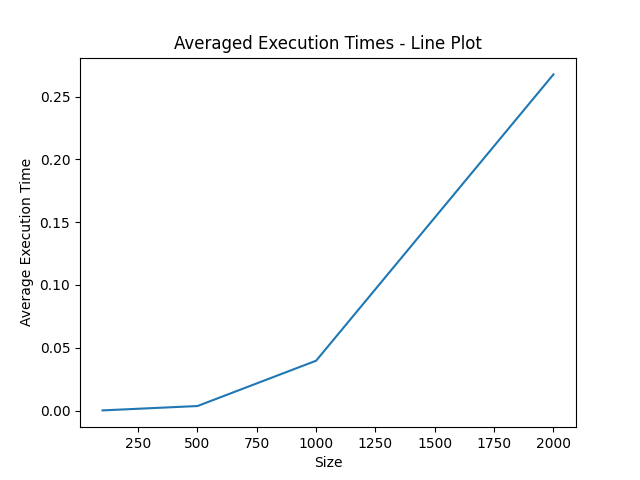
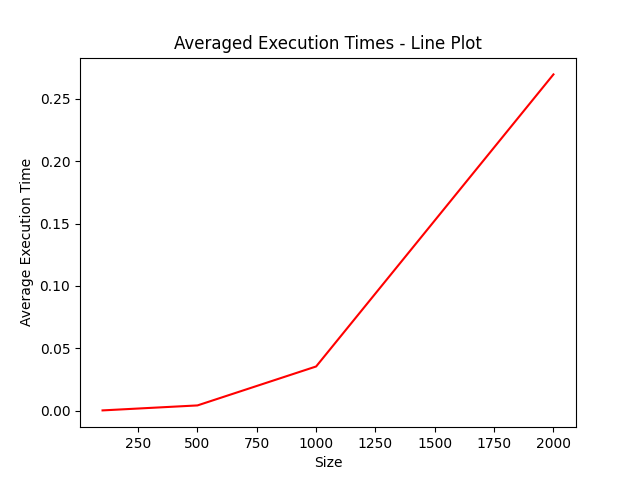
plot_average_from_json was created

diff --git a/plot_average_from_json.py b/plot_average_from_json.py
@@ -1,0 +1,55 @@
+import json
+import matplotlib.pyplot as plt
+import os
+
+def plot_average_from_json(json_filename1, json_filename2):
+    if not os.path.isfile(json_filename1):
+        print(f"File '{json_filename1}' does not exist.")
+        return
+
+    if not os.path.isfile(json_filename2):
+        print(f"File '{json_filename2}' does not exist.")
+        return
+
+    with open(json_filename1, 'r') as json_file1:
+        data1 = json.load(json_file1)
+
+    with open(json_filename2, 'r') as json_file2:
+        data2 = json.load(json_file2)
+
+    sizes = []
+    average1 = []
+    average2 = []
+
+    # Retrieve data from JSON file 1
+    for size, result in data1.items():
+        sizes.append(int(result['size']))
+        average1.append(float(result['average_execution_time']))
+
+    # Retrieve data from JSON file 2
+    for size, result in data2.items():
+        average2.append(float(result['average_execution_time']))
+
+    # Calculate the average of the two data sets
+    average = [(a + b) / 2 for a, b in zip(average1, average2)]
+
+    # Plotting the line chart
+    plt.plot(sizes, average)
+    plt.xlabel('Size')
+    plt.ylabel('Average Execution Time')
+    plt.title('Averaged Execution Times - Line Plot')
+
+    # Save the chart as an image file
+    line_chart_name = 'line_chart_AVG_CPU_GPU_matrix.png'
+    plt.savefig(line_chart_name)
+
+    # Save the averaged data as a JSON file
+    data_filename = 'averaged_data_CPU_GPU_matrix.json'
+    averaged_data = {
+        'sizes': sizes,
+        'average_execution_times': average
+    }
+    with open(data_filename, 'w') as json_output:
+        json.dump(averaged_data, json_output)
+
+    plt.show()

diff --git a/main.py b/main.py
@@ -4,6 +4,8 @@ from utils.cpu_operations import cpu_operations
 import BarChartPlotter
 import PlotLineChart
 import matplotlib.pyplot as plt
+import plot_average_from_json
+
 
 def main():
     # cpu=1  and gpu=2
@@ -11,16 +13,18 @@ def main():
 
  
     # Create an instance of the cpu_operations class
-    cpu_operat = cpu_operations()
+    #cpu_operat = cpu_operations()
     # Perform matrix multiplication on CPU
-    cpu_operat.calculate_and_save_averaged_results()
+    #cpu_operat.calculate_and_save_averaged_results()
 
     # show LineChartPlotter
-    json_filename_cpu = "averaged_execution_cpu_times.json"
+    #json_filename_cpu = "averaged_execution_cpu_times.json"
     
-    PlotLineChart.plot_line_chart_from_json(json_filename_cpu)
+    #PlotLineChart.plot_line_chart_from_json(json_filename_cpu)
    
- 
+    plot_average_from_json.plot_average_from_json('averaged_execution_cpu_times.json', 'averaged_execution_gpu_times.json')
+
+
     # Create an instance of the cpu_operations class
     #gpu_ooerat = gpu_operations()
    

diff --git a/PlotLineChart.py b/PlotLineChart.py
@@ -14,15 +14,17 @@ def plot_line_chart_from_json(json_filename):
     execution_times = []
 
     if json_filename=='averaged_execution_cpu_times.json':
-        lineChart_name = "lineChart_matrix_cpu.png"    
+        lineChart_name = "lineChart_matrix_cpu.png"   
+        lineColor = 'red'   
     else:
        lineChart_name = "lineChart_matrix_gpu.png"    
+       lineColor = 'blue'
 
     for size, result in data.items():
         sizes.append(int(result['size']))
         execution_times.append(float(result['average_execution_time']))
 
-    plt.plot(sizes, execution_times)
+    plt.plot(sizes, execution_times,color=lineColor)
     plt.xlabel('Size')
     plt.ylabel('Average Execution Time')
     plt.title('Averaged Execution Times - Line Plot')
